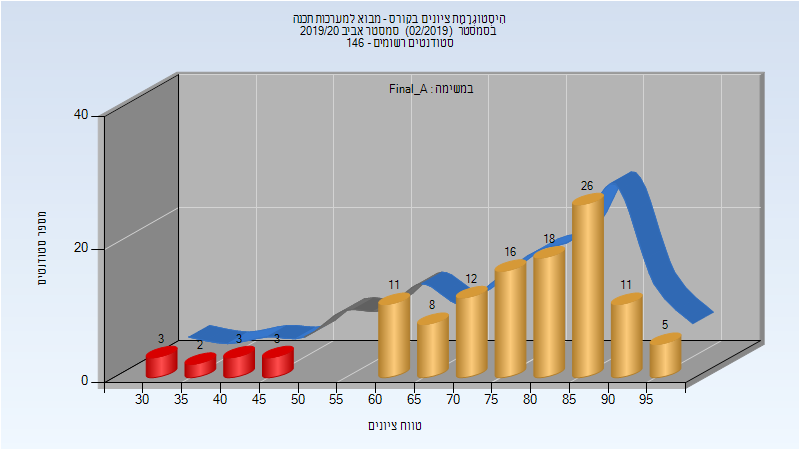
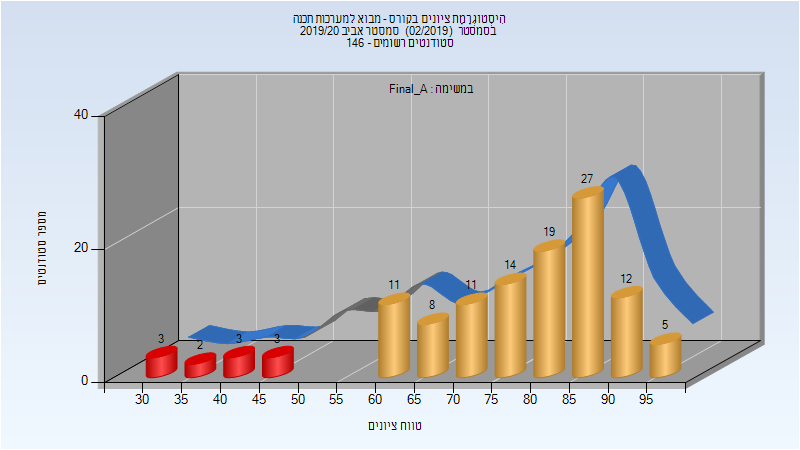
Deploy michael-maltsev/technion-histograms to github.com/michael-maltsev/technion-histograms.git:gh-pages

Changed region(s): [[0.75, 0.4356, 0.875, 0.6844], [0.5625, 0.4978, 0.7188, 0.6844], [0.7188, 0.3733, 0.8125, 0.4667]]

diff --git a/044101/index.html b/044101/index.html
@@ -1349,8 +1349,8 @@
 <td>81</td>
 <td>31</td>
 <td>100</td>
-<td>71.835</td>
-<td>75</td>
+<td>72.25</td>
+<td>75.5</td>
 </tr>
 </tbody>
 </table>
@@ -1375,8 +1375,8 @@
 <td>91</td>
 <td>31</td>
 <td>98</td>
-<td>76.195</td>
-<td>80</td>
+<td>76.517</td>
+<td>81</td>
 </tr>
 </tbody>
 </table>

diff --git a/044101/README.md b/044101/README.md
@@ -420,7 +420,7 @@
 
 | סטודנטים | עברו/נכשלו | אחוז עוברים | ציון מינימלי | ציון מקסימלי | ממוצע | חציון |
 | ---- | ---- | ---- | ---- | ---- | ---- | ---- |
-| 118 | 95/23 | 81 | 31 | 100 | 71.835 | 75 |
+| 118 | 95/23 | 81 | 31 | 100 | 72.25 | 75.5 |
 
 ### סופי מועד א'
 
@@ -428,7 +428,7 @@
 
 | סטודנטים | עברו/נכשלו | אחוז עוברים | ציון מינימלי | ציון מקסימלי | ממוצע | חציון |
 | ---- | ---- | ---- | ---- | ---- | ---- | ---- |
-| 118 | 107/11 | 91 | 31 | 98 | 76.195 | 80 |
+| 118 | 107/11 | 91 | 31 | 98 | 76.517 | 81 |
 
 ### סופי
 
